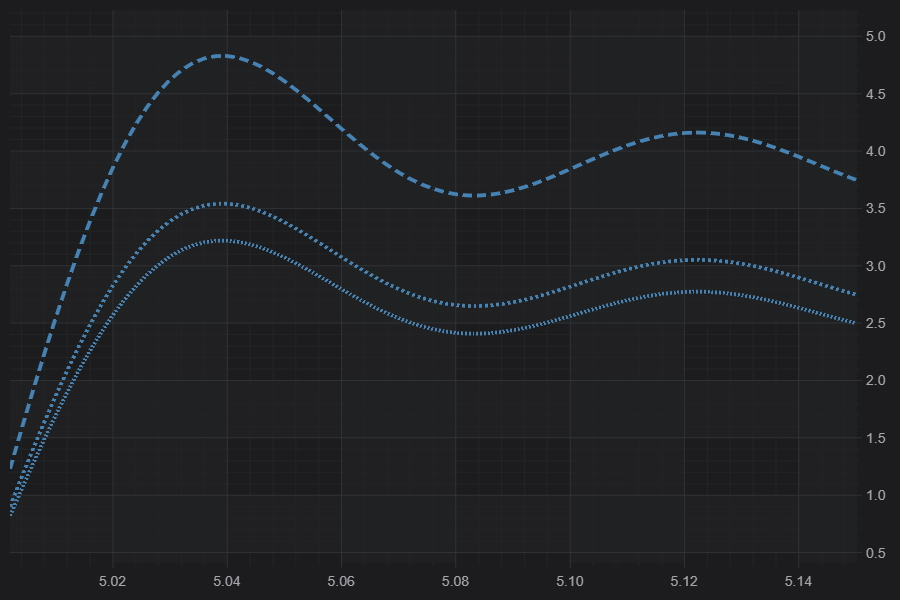
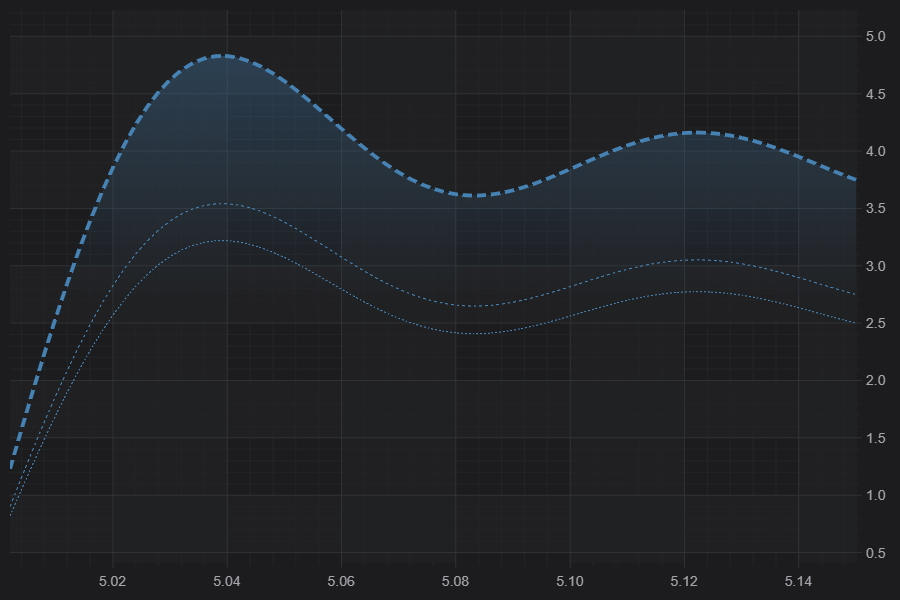
Added mountain chart to the dashed line example

diff --git a/Examples/src/components/Examples/Charts2D/StylingAndTheming/DashedLineStyling/index.tsx b/Examples/src/components/Examples/Charts2D/StylingAndTheming/DashedLineStyling/index.tsx
@@ -11,6 +11,9 @@ import {ZoomExtentsModifier} from "scichart/Charting/ChartModifiers/ZoomExtentsM
 import {ExampleDataProvider} from "../../../ExampleData/ExampleDataProvider";
 import {ENumericFormat} from "scichart/types/NumericFormat";
 import {TrianglePointMarker} from "scichart/Charting/Visuals/PointMarkers/TrianglePointMarker";
[1 lines of base64/hex data omitted]
+import {GradientParams} from "scichart/Core/GradientParams";
+import {Point} from "scichart/Core/Point";
 
 // tslint:disable:no-empty
 // tslint:disable:max-classes-per-file
@@ -32,14 +35,18 @@ const drawExample = async () => {
         })
     );
 
-    // Create a line series no dash
+    // Create a line series dotted line
     sciChartSurface.renderableSeries.add(
-        new FastLineRenderableSeries(wasmContext, {
+        new FastMountainRenderableSeries(wasmContext, {
             stroke: "SteelBlue",
-            strokeThickness: 2,
-            dataSeries: createLineData(wasmContext, 0),
-            // Strokedash array defines the stroke dash. [2,2] means draw for 2pt, gap for 2pt
-            strokeDashArray: [2, 2]
+            fillLinearGradient: new GradientParams(new Point(0, 0), new Point(0, 1), [
+                { color: "rgba(70,130,180,0.4)", offset: 0 },
+                { color: "rgba(70,130,180,0.0)", offset: 0.5 }
+            ]),
+            strokeThickness: 3,
+            dataSeries: createLineData(wasmContext, 2),
+            // Strokedash array defines the stroke dash. [10,5] means draw for 10pts, gap for 5pts
+            strokeDashArray: [10, 5]
         })
     );
 
@@ -54,14 +61,14 @@ const drawExample = async () => {
         })
     );
 
-    // Create a line series dotted line
+    // Create a line series no dash
     sciChartSurface.renderableSeries.add(
         new FastLineRenderableSeries(wasmContext, {
             stroke: "SteelBlue",
             strokeThickness: 2,
-            dataSeries: createLineData(wasmContext, 2),
-            // Strokedash array defines the stroke dash. [10,5] means draw for 10pts, gap for 5pts
-            strokeDashArray: [10, 5]
+            dataSeries: createLineData(wasmContext, 0),
+            // Strokedash array defines the stroke dash. [2,2] means draw for 2pt, gap for 2pt
+            strokeDashArray: [2, 2]
         })
     );
 
